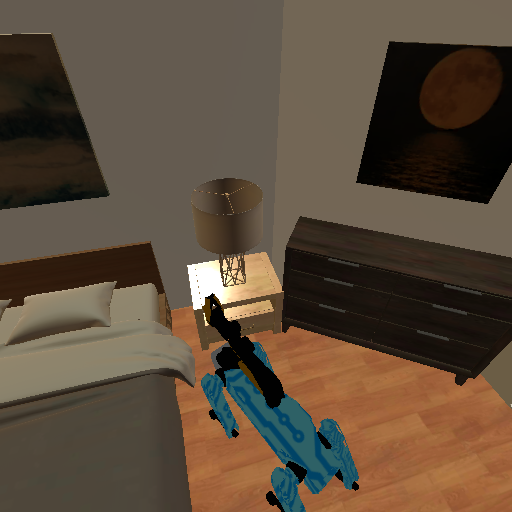
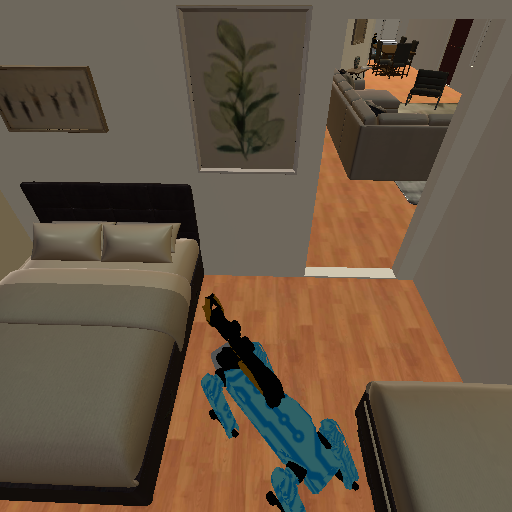
Improve generated Habitat environment evidence frames

diff --git a/experiments/habitat_closed_loop/analyze_code_generated_environment.py b/experiments/habitat_closed_loop/analyze_code_generated_environment.py
@@ -6,6 +6,7 @@ from __future__ import annotations
 import argparse
 import hashlib
 import json
+import math
 import shutil
 from pathlib import Path
 
@@ -35,6 +36,7 @@ def main() -> None:
 
     rows = []
     selected_frames = []
+    panels_to_render = []
     summaries = sorted(runs.glob("results/*/results/*/closed_loop_artifacts/summary.json"))
     if len(summaries) != 3:
         raise SystemExit(f"expected three generated-environment runs, found {len(summaries)}")
@@ -46,14 +48,62 @@ def main() -> None:
         frames = sorted((artifact / "frames").glob("**/*.png"))
         if not frames:
             raise SystemExit(f"no rendered frames in {artifact}")
-        chosen = frames[-1]
         condition = run_manifest["condition"]
-        frame_out = output / f"generated_environment_{condition}_final.png"
-        shutil.copy2(chosen, frame_out)
-        selected_frames.append({
-            "condition": condition, "source": str(chosen.relative_to(ROOT)),
-            "export": str(frame_out.relative_to(ROOT)), "sha256": sha256(frame_out),
-        })
+        events = read_jsonl(artifact / "events.jsonl")
+        if condition == "dynamic_ssc":
+            target_entities = {str(check["entity"]) for check in final["checks"]}
+            key_actions = []
+            seen_entities = set()
+            for event in events:
+                action = event.get("action") or {}
+                outcome = event.get("outcome") or {}
+                arguments = action.get("arguments") or []
+                if (
+                    event.get("event_type") == "action_feedback"
+                    and outcome.get("success")
+                    and action.get("name") in {"Place", "Open"}
+                    and arguments
+                    and str(arguments[0]) in target_entities
+                    and str(arguments[0]) not in seen_entities
+                ):
+                    key_actions.append((int(event["turn"]), str(event["agent_id"]), str(arguments[0]), action["name"]))
+                    seen_entities.add(str(arguments[0]))
+            if len(key_actions) < len(target_entities):
+                raise SystemExit(f"missing successful goal actions in {artifact}: {key_actions}")
+            for turn, agent, entity, action_name in key_actions:
+                actor_candidates = sorted((artifact / "frames" / agent / f"turn_{turn:04d}").glob("*_in_action.png"))
+                chosen = max(actor_candidates, key=lambda path: path.stat().st_size) if actor_candidates else None
+                if chosen is None or chosen.stat().st_size < 50_000:
+                    candidates = sorted((artifact / "frames").glob(f"*/turn_{turn:04d}/*_in_action.png"))
+                    candidates += sorted((artifact / "frames").glob(f"*/turn_{turn + 1:04d}/*_in_action.png"))
+                    if not candidates:
+                        candidates = sorted((artifact / "frames" / agent / f"turn_{turn:04d}").glob("*.png"))
+                    chosen = max(candidates, key=lambda path: path.stat().st_size)
+                frame_agent = chosen.parents[1].name
+                frame_out = output / f"generated_environment_dynamic_t{turn:04d}_{entity}.png"
+                shutil.copy2(chosen, frame_out)
+                record = {
+                    "condition": condition, "turn": turn, "agent": agent,
+                    "frame_agent": frame_agent,
+                    "action": action_name, "entity": entity,
+                    "source": str(chosen.relative_to(ROOT)),
+                    "export": str(frame_out.relative_to(ROOT)), "sha256": sha256(frame_out),
+                }
+                selected_frames.append(record)
+                panels_to_render.append((record, f"Dynamic SSC · T{turn} · {action_name} {entity}"))
+        else:
+            final_turn = int(final["turn"])
+            candidates = sorted((artifact / "frames").glob(f"*/turn_{final_turn:04d}/*_in_action.png"))
+            chosen = candidates[-1] if candidates else frames[-1]
+            frame_out = output / f"generated_environment_{condition}_final.png"
+            shutil.copy2(chosen, frame_out)
+            record = {
+                "condition": condition, "turn": final_turn,
+                "source": str(chosen.relative_to(ROOT)),
+                "export": str(frame_out.relative_to(ROOT)), "sha256": sha256(frame_out),
+            }
+            selected_frames.append(record)
+            panels_to_render.append((record, f"{condition} · final · {final['completed_goals']}/{final['total_goals']} goals"))
         rows.append({
             "condition": condition,
             "task_id": run_manifest["task_id"],
@@ -68,16 +118,18 @@ def main() -> None:
         })
 
     thumbs = []
-    for frame in selected_frames:
+    for frame, title in panels_to_render:
         image = Image.open(ROOT / frame["export"]).convert("RGB")
         image.thumbnail((640, 420))
         panel = Image.new("RGB", (660, 470), "white")
         panel.paste(image, ((660 - image.width) // 2, 40))
-        ImageDraw.Draw(panel).text((18, 12), f"{frame['condition']} · generated episode 911166", fill="black")
+        ImageDraw.Draw(panel).text((18, 12), title, fill="black")
         thumbs.append(panel)
-    sheet = Image.new("RGB", (660 * len(thumbs), 470), "white")
+    columns = 2
+    rows_count = math.ceil(len(thumbs) / columns)
+    sheet = Image.new("RGB", (660 * columns, 470 * rows_count), "white")
     for index, panel in enumerate(thumbs):
-        sheet.paste(panel, (660 * index, 0))
+        sheet.paste(panel, (660 * (index % columns), 470 * (index // columns)))
     sheet_path = output / "ssc_code_generated_environment_execution.png"
     sheet.save(sheet_path)
 
@@ -122,7 +174,13 @@ def main() -> None:
             f"| {row['condition']} | {row['episode_id']} | "
             f"{row['completed_goals']}/{row['total_goals']} | {row['turns']} | {row['frame_count']} |"
         )
-    lines.extend(["", f"编译与执行验收：`accepted={str(evidence['accepted']).lower()}`。", ""])
+    lines.extend([
+        "", f"编译与执行验收：`accepted={str(evidence['accepted']).lower()}`。", "",
+        "- [真实执行帧对照](ssc_code_generated_environment_execution.png)",
+        "- [生成后的 Spatial–Social Code](generated_ssc_code.json)",
+        "- [编译 manifest](compile_manifest.json)",
+        "- [可直接加载的 Habitat episodes](episodes.json.gz)", "",
+    ])
     (output / "README_zh.md").write_text("\n".join(lines), encoding="utf-8")
     print(json.dumps(evidence, indent=2, ensure_ascii=False))
 

diff --git a/reports/code_to_environment/habitat_ep1166_generated_v1/README_zh.md b/reports/code_to_environment/habitat_ep1166_generated_v1/README_zh.md
@@ -18,3 +18,8 @@
 | static_ssc | 911166 | 1/3 | 20 | 324 |
 
 编译与执行验收：`accepted=true`。
+
+- [真实执行帧对照](ssc_code_generated_environment_execution.png)
+- [生成后的 Spatial–Social Code](generated_ssc_code.json)
+- [编译 manifest](compile_manifest.json)
+- [可直接加载的 Habitat episodes](episodes.json.gz)
